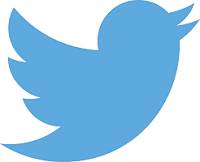
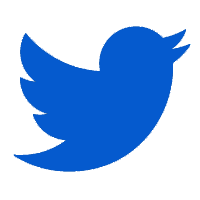
try yellow

diff --git a/css/Site.css b/css/Site.css
@@ -239,13 +239,13 @@ input[type="file"] > input[type="button"]::-moz-focus-inner {
 
 #mainTitle:hover
 {
-    color:#F33088;
+    color:#FFD300; /*#F33088;#EE9700#EE6300#FF7300#FFA300#FFC400*/
 }
 
 #mainMenuSection #mainMenu a:hover
 {
-    background-color: #ED4577;
-    color: white;
+    background-color: #FFF30A;/*#ED4577;*/
+    color: #333333;
     border-bottom:0;
 
 }

diff --git a/index.html b/index.html
@@ -12,6 +12,7 @@
 	var header = new Image();
 	header.src = "forest.png";
     document.getElementsByTagName("body")[0].style.display = "block";
+
 </script>
         <header id="mainHeader">
 	        <div id="headerbackground">
